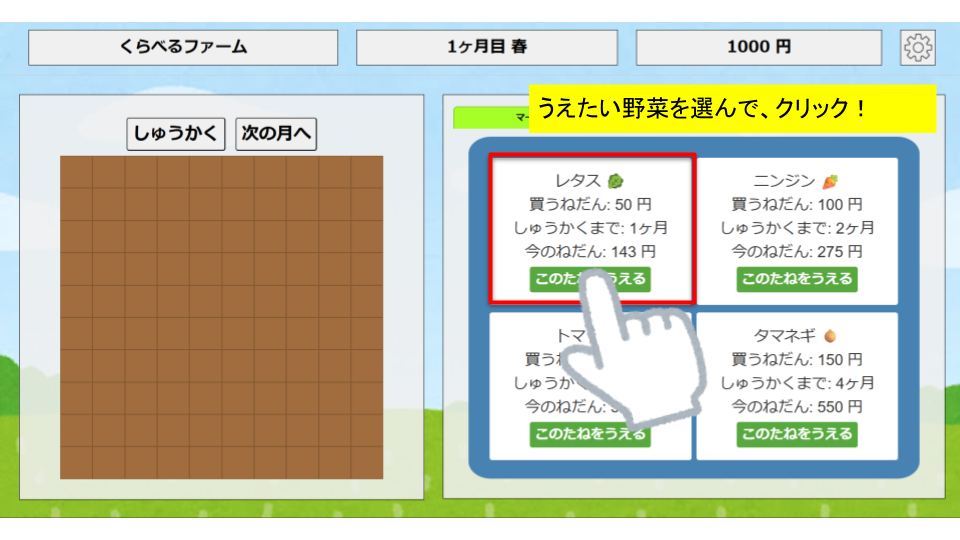
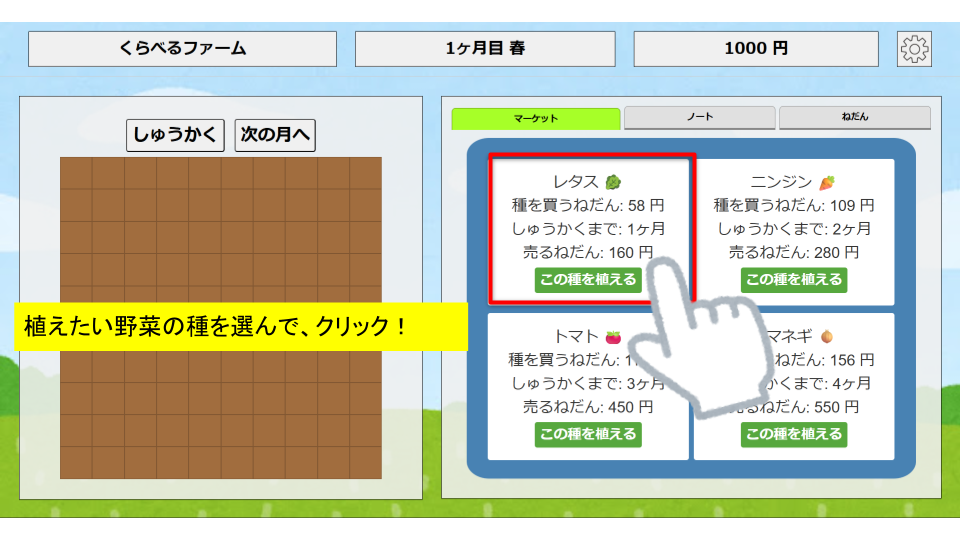
a

diff --git a/GAME_MAIN/GAME.html b/GAME_MAIN/GAME.html
@@ -42,30 +42,30 @@
                             <div class="item-grid">
                                 <button id="seed-button-lettuce" class="item-slot action-button">
                                     レタス 🥬<br>
-                                    買うねだん: 50 円<br>
+                                    <span id="market-price-lettuce">種を買うねだん: 50 円</span>
                                     しゅうかくまで: 1ヶ月<br>
-                                    <span id="market-price-lettuce">今の売るねだん: --- 円</span>
+                                    売るねだん: 160 円
                                     <div class="market-button action-button">この種を植える</div>
                                 </button>
                                 <button id="seed-button-carot" class="item-slot action-button">
                                     ニンジン 🥕<br>
-                                    買うねだん: 100 円<br>
+                                    <span id="market-price-carrot"> 種を買うねだん: 100 円</span>
                                     しゅうかくまで: 2ヶ月<br>
-                                    <span id="market-price-carrot">今の売るねだん: --- 円</span>
+                                    売るねだん: 280 円
                                     <div class="market-button action-button">この種を植える</div>
                                 </button>
                                 <button id="seed-button-tomato" class="item-slot action-button">
                                     トマト 🍅<br>
-                                    買うねだん: 120 円<br>
+                                    <span id="market-price-tomato"> 種を買うねだん: 120 円</span>
                                     しゅうかくまで: 3ヶ月<br>
-                                    <span id="market-price-tomato">今の売るねだん: --- 円</span>
+                                    売るねだん: 450 円
                                     <div class="market-button action-button">この種を植える</div>
                                 </button>
                                 <button id="seed-button-onion" class="item-slot action-button">
                                     タマネギ 🧅<br>
-                                    買うねだん: 150 円<br>
+                                    <span id="market-price-onion"> 種を買うねだん: 150 円</span>
                                     しゅうかくまで: 4ヶ月<br>
-                                    <span id="market-price-onion">今の売るねだん: --- 円</span>
+                                    売るねだん: 550 円
                                     <div class="market-button action-button">この種を植える</div>
                                 </button>
                             </div>
@@ -83,38 +83,42 @@
                             <div class="item-grid" style="height: 85%;">
                                 <div class="item-slot note-slot">
                                     <h4>レタス 🥬</h4>
-                                    <p>ねだんが大きく変わる！</p>
-                                    <p>
-                                        買うねだん: 50 円<br>
-                                        しゅうかくまで: 1ヶ月</p>
-                                    <p id="note-price-lettuce">今の売るねだん：--- 円</p>
+                                    <p>ねだんが上がりやすいかも</p>
+                                    <p style="font-weight: bold;">
+                                        <span id="note-price-lettuce">種を買うねだん: 50 円</span><br>
+                                        しゅうかくまで: 1ヶ月<br>
+                                        売るねだん：160 円
+                                    </p>
                                     <textarea class="memo-note" placeholder="メモや計算をしよう！"></textarea>
                                 </div>
                                 <div class="item-slot note-slot">
                                     <h4>ニンジン 🥕</h4>
                                     <p>いちばん安定！</p>
-                                    <p>
-                                        買うねだん: 100 円<br>
-                                        しゅうかくまで: 2ヶ月</p>
-                                    <p id="note-price-carrot">今の売るねだん：--- 円</p>
+                                    <p style="font-weight: bold;">
+                                        <span id="note-price-carrot"> 種を買うねだん: 100 円</span><br>
+                                        しゅうかくまで: 2ヶ月<br>
+                                        売るねだん：280 円
+                                    </p>
                                     <textarea class="memo-note" placeholder="メモや計算をしよう！"></textarea>
                                 </div>
                                 <div class="item-slot note-slot">
                                     <h4>トマト 🍅</h4>
-                                    <p>ねだんが下がりやすいかも</p>
-                                    <p>
-                                        買うねだん: 120 円<br>
-                                        しゅうかくまで: 3ヶ月</p>
-                                    <p id="note-price-tomato">今の売るねだん：--- 円</p>
+                                    <p>ねだんが大きく変わる！</p>
+                                    <p style="font-weight: bold;">
+                                        <span id="note-price-tomato"> 種を買うねだん: 120 円</span><br>
+                                        しゅうかくまで: 3ヶ月<br>
+                                        売るねだん：450 円
+                                    </p>
                                     <textarea class="memo-note" placeholder="メモや計算をしよう！"></textarea>
                                 </div>
                                 <div class="item-slot note-slot">
                                     <h4>タマネギ 🧅</h4>
                                     <p>ゆっくり安全に！</p>
-                                    <p>
-                                        買うねだん: 150 円<br>
-                                        しゅうかくまで: 4ヶ月</p>
-                                    <p id="note-price-onion">今の売るねだん：--- 円</p>
+                                    <p style="font-weight: bold;">
+                                        <span id="note-price-onion"> 種を買うねだん: 150 円</span><br>
+                                        しゅうかくまで: 4ヶ月<br>
+                                        売るねだん：550 円
+                                    </p>
                                     <textarea class="memo-note" placeholder="メモや計算をしよう！"></textarea>
                                 </div>
                             </div>
@@ -170,7 +174,7 @@
                                 「次の月へ」をおすと、時間が進んで野菜が育ちます。</p>
                             <p><strong>3. 売る（しゅうかく）</strong><br>
                                 育ちきった野菜を「しゅうかく」すると、自動的に売られてお金になります。<br>
-                                <span style="color: #e74c3c;">※「売るねだん」は毎月変わるよ！安くなっているときは注意！</span>
+                                <span style="color: #e74c3c;">※「種を買うねだん」は毎月変わるよ！高くなっているときは注意！</span>
                             </p>
                         </div>
                     </div>

diff --git a/GAME_MAIN/GAME.js b/GAME_MAIN/GAME.js
@@ -35,10 +35,10 @@ let isMouseDown = false;
 
 // 作物データ
 const PRICE_BASE = {
-    'lettuce': { seedPrice: 50, basePrice: 160, growTime: 1, maxVolatility: 0.35, minVolatility: -0.50, label: 'レタス', mark: '🥬', color: 'rgba(50, 205, 50, 0.8)' },
-    'carrot': { seedPrice: 100, basePrice: 280, growTime: 2, volatility: 0.1, label: 'ニンジン', mark: '🥕', color: 'rgba(255, 140, 0, 0.8)' },
-    'tomato': { seedPrice: 120, basePrice: 450, growTime: 3, volatility: 0.35, label: 'トマト', mark: '🍅', color: 'rgba(220, 20, 60, 0.8)' },
-    'onion': { seedPrice: 150, basePrice: 550, growTime: 4, volatility: 0.1, label: 'タマネギ', mark: '🧅', color: 'rgba(100, 149, 237, 0.8)' }
+    'lettuce': { seedPrice: 50, fixedSellPrice: 160, growTime: 1, maxVolatility: 0.85, minVolatility: -0.5, label: 'レタス', mark: '🥬', color: 'rgba(50, 205, 50, 0.8)' },
+    'carrot': { seedPrice: 100, fixedSellPrice: 280, growTime: 2, volatility: 0.15, label: 'ニンジン', mark: '🥕', color: 'rgba(255, 140, 0, 0.8)' },
+    'tomato': { seedPrice: 120, fixedSellPrice: 450, growTime: 3, volatility: 0.35, label: 'トマト', mark: '🍅', color: 'rgba(220, 20, 60, 0.8)' },
+    'onion': { seedPrice: 150, fixedSellPrice: 550, growTime: 4, volatility: 0.15, label: 'タマネギ', mark: '🧅', color: 'rgba(100, 149, 237, 0.8)' }
 };
 
 let priceChartInstance = null;
@@ -181,8 +181,8 @@ function handlePlotClick(event) {
     // 種まき
     if (selectedSeed) {
         if (plotData) return;
+        const seedPrice = getCurrentPrice(selectedSeed);
 
-        const seedPrice = PRICE_BASE[selectedSeed].seedPrice;
         if (gameData.money < seedPrice) {
             showOverlay('alert', 'お金が足りません！');
         } else {
@@ -197,14 +197,14 @@ function handlePlotClick(event) {
         if (!plotData || !plotElement.classList.contains('ready-to-harvest')) return;
 
         const cropId = plotData.cropId;
-        const currentPrice = getCurrentPrice(cropId);
+        const currentSellPrice = PRICE_BASE[cropId].fixedSellPrice;
 
-        if (currentPrice === undefined) {
+        if (currentSellPrice === undefined) {
             alert('価格データエラー');
             return;
         }
 
-        gameData.money += currentPrice;
+        gameData.money += currentSellPrice;
         gameData.farmPlots[index] = null;
         updateInfoPanel();
         renderFarmPlots();
@@ -364,6 +364,8 @@ function generateInitialHistory() {
     }
 }
 
+
+// ... (省略)
 function generateMonthlyPrice(cropId) {
     const base = PRICE_BASE[cropId];
     let changeRate;
@@ -373,14 +375,17 @@ function generateMonthlyPrice(cropId) {
     } else {
         changeRate = (Math.random() * 2 * base.volatility) - base.volatility;
     }
+    let newPrice = Math.round(base.seedPrice * (1 + changeRate));
 
-    let newPrice = Math.round(base.basePrice * (1 + changeRate));
-    
-    if (newPrice < base.seedPrice + 10) newPrice = base.seedPrice + 10;
-    if (newPrice > base.basePrice * 2) newPrice = base.basePrice * 2;
+    if (newPrice < 1) newPrice = 1;
+
+    // 上限価格は seedPrice の 2.5倍に設定（過度な高騰の抑制）
+    if (newPrice > base.seedPrice * 2.5) newPrice = Math.round(base.seedPrice * 2.5);
 
     return newPrice;
 }
+// ... (省略)
+
 
 function getCurrentPrice(cropId) {
     const history = gameData.priceHistory[cropId];
@@ -396,17 +401,17 @@ function updateCurrentPrices() {
 
         let baseId = cropId;
 
-        // ねだんタブ更新
-        const elPrice = document.getElementById(`price-${baseId}`);
-        if (elPrice) elPrice.innerHTML = `${cropName}<br>${currentPrice} 円`;
+        // マーケットタブ更新
+        const elMarket = document.getElementById(`market-price-${baseId}`);
+        if (elMarket) elMarket.textContent = `種を買うねだん: ${currentPrice} 円`;
 
         // ノートタブ更新
         const elNote = document.getElementById(`note-price-${baseId}`);
-        if (elNote) elNote.textContent = `今のねだん：${currentPrice} 円`;
+        if (elNote) elNote.textContent = `種を買うねだん：${currentPrice} 円`;
 
-        // マーケットタブ更新
-        const elMarket = document.getElementById(`market-price-${baseId}`);
-        if (elMarket) elMarket.textContent = `今のねだん: ${currentPrice} 円`;
+        // ねだんタブ更新
+        const elPrice = document.getElementById(`price-${baseId}`);
+        if (elPrice) elPrice.innerHTML = `${cropName}<br>${currentPrice} 円`;
     }
 }
 
@@ -446,25 +451,29 @@ function renderPriceChart() {
     if (!ctx) return;
 
     const data = getChartData();
-    const suggestedMax = Math.ceil(Math.max(...data.datasets.flatMap(d => d.data)) / 100) * 100;
-    const suggestedMin = Math.floor(PRICE_BASE.lettuce.seedPrice / 10) * 10;
 
     const chartOptions = {
         responsive: true,
         maintainAspectRatio: false,
-        title: { display: true, text: 'ねだんチャート', fontSize: 16 },
+        title: { display: true, text: '種を買うねだんチャート', fontSize: 16 },
         scales: {
             xAxes: [{ scaleLabel: { display: true, labelString: '時間' } }],
             yAxes: [{
                 scaleLabel: { display: true, labelString: 'ねだん (円)' },
-                ticks: { beginAtZero: false, suggestedMax, suggestedMin }
+                ticks: {
+                    beginAtZero: false,
+                    min: 0,
+                    max: 200
+                }
+
             }]
         }
     };
 
     if (priceChartInstance) {
         priceChartInstance.data = data;
-        priceChartInstance.options.scales.yAxes[0].ticks.suggestedMax = suggestedMax;
+        priceChartInstance.options.scales.yAxes[0].ticks.min = 0;
+        priceChartInstance.options.scales.yAxes[0].ticks.max = 200;
         priceChartInstance.update();
     } else {
         priceChartInstance = new Chart(ctx, { type: 'line', data: data, options: chartOptions });
@@ -559,7 +568,7 @@ function changeHelpPage(direction) {
 function updateHelpControls() {
     const prevBtn = document.getElementById('help-prev-button');
     const nextBtn = document.getElementById('help-next-button');
-    
+
     if (currentHelpPage === 1) {
         prevBtn.style.display = 'none';
     } else {
